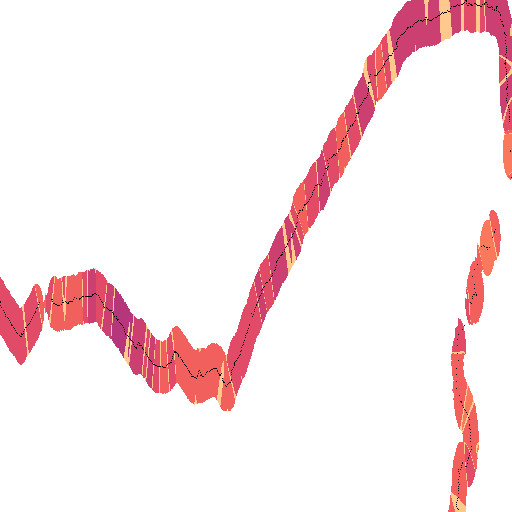
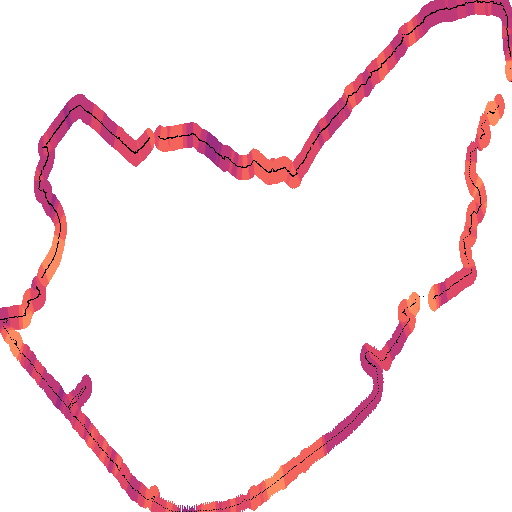
change color and add data

Changed region(s): [[0.0, 0.0, 1.0, 1.0]]

diff --git a/termalmap.py b/termalmap.py
@@ -9,19 +9,20 @@ import json
 
 # change these to change how detailed the generated image is
 # (1000x1000 is good, but very slow)
-MAX_X=256
-MAX_Y=256
+MAX_X=512
+MAX_Y=512
 
 
+#MAX_LAT = 55.0388235
+#MIN_LAT = 55.007120
 MAX_LAT = 55.0388235
-MIN_LAT = 55.007120
-#MAX_LAT = 55.029373
-#MIN_LAT = 54.997690
+MIN_LAT = 54.9693
 
+#MAX_LON = 83.0272901
+#MIN_LON = 82.911715
 MAX_LON = 83.0272901
-MIN_LON = 82.911715
-#MAX_LON = 82.983508
-#MIN_LON = 82.915583
+MIN_LON = 82.8765452
+
 
 DRAW_DOTS=True
 
@@ -336,23 +337,30 @@ magma_data = [[0.001462, 0.000466, 0.013866],
 
 # costs of 2br units
 buckets = [
-    9500,
-    8400,
-    7300,
-    6200,
-    6100,
-    6000,
-    4500,
-    4000,
-    3800,
-    3400,
-    3000,
-    2800,
-    2200,
-    2100,
-    1900,
-    1500,
-    1400
+    40,
+    20,
+    10,
+    -10,
+    -20,
+    -30,
+    -41,
+    -50,
+    -51,
+    -60,
+    -61,
+    -70,
+    -71,
+    -80,
+    -81,
+    -90,
+    -91,
+    -100,
+    -101,
+    -110,
+    -111,
+    -120,
+    -121,
+    -130
     ]
 
 colors = []
@@ -399,30 +407,12 @@ def gaussian(prices, lat, lon, ignore=(0.001, 0.002)):
     # don't display any averages that don't take into account at least five data points with significant weight
     if c < 5:
         return None
-
     if num/dnm >= -40:
-        return 6000
-    elif num/dnm < -41 and num/dnm >= -50:
-        return 4500
-    elif num/dnm < -51 and num/dnm >= -60:
-        return 4000
-    elif num/dnm < -61 and num/dnm >= -70:
-        return 3800
-    elif num/dnm < -71 and num/dnm >= -80:
-        return 3400
-    elif num/dnm < -81 and num/dnm >= -90:
-        return 3000
-    elif num/dnm < -91 and num/dnm >= -100:
-        return 2800
-    elif num/dnm < -101 and num/dnm >= -110:
-        return 2200
-    elif num/dnm < -111 and num/dnm >= -120:
-        return 2100
-    elif num/dnm < -121 and num/dnm >= -130:
-        return 1900
+        return -40
+    elif num/dnm <= -130:
+        return -130
     else:
-        return 1500
-   # return num/dnm
+        return num/dnm
 
 def absolute_rsrp_single(pricem, lat, lon):
     a = 0
@@ -468,7 +458,7 @@ def absolute_rsrp_single(pricem, lat, lon):
 def average(priced_points):
     averaged_points = []
     summ = 0
-    point_count = 5
+    point_count = 3
     for i in range(len(priced_points)):
         summ += priced_points[i][0]
         if i%point_count==0:

diff --git a/src/getData.py b/src/getData.py
@@ -1,0 +1,15 @@
+import requests
+
+def load_from_go(url):
+    
+    response = requests.get(url)
+    
+    if response.status_code == 200:
+        data = response.json()
+        return data
+    else:
+        print("Ошибка при отправке запроса. Код ответа:", response.status_code)
+
+load_url = "http://78.24.222.170:8080/api/sockets/thermalmapdataall"
+
+load_from_go(load_url)
